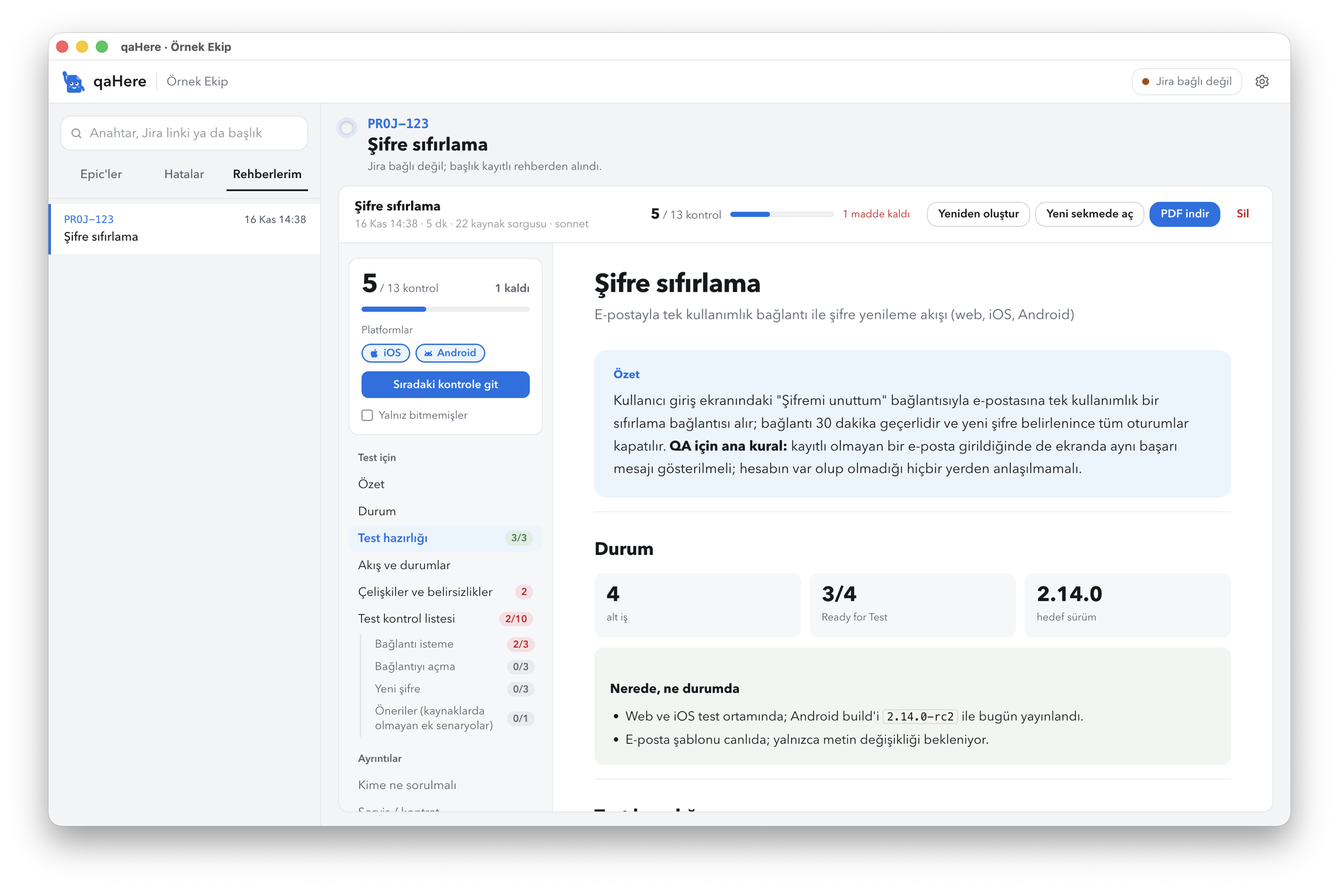
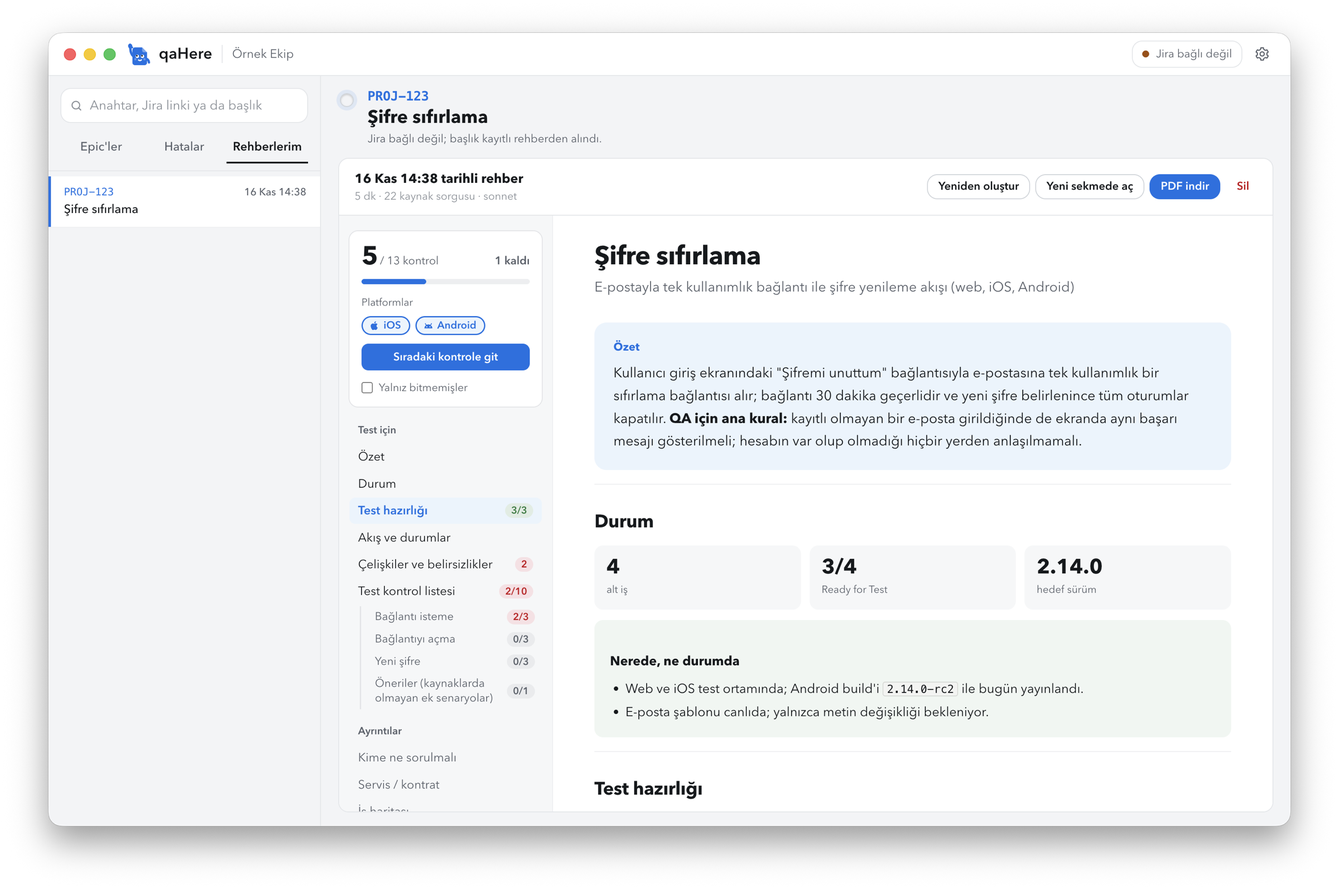
Masaüstü: native başlık çubuğu, rehberde koyu tema, tekrar eden başlık ve ilerleme sadeleşti

diff --git a/public/viewer.css b/public/viewer.css
@@ -1,23 +1,26 @@
 /* Rehberin uygulama içindeki ekran düzeni (viewer.js ile). Yalnızca html.live altında geçerli; PDF'i etkilemez. */
-html.live{scroll-padding-top:16px;background:#fff}
+/* Yüzeyler değişkenle: açık tema aşağıda, koyu tema dosyanın sonunda. PDF ve "Yeni sekmede aç" hep açık kalır. */
+html.live{scroll-padding-top:16px;background:var(--bg);
+  --bg:#fff; --raise:#fff; --rail:#f6f7f8; --hover:#eef0f2; --sep:#eceef0; --sep-2:#e2e4e7; --chip:#e9ebed;
+  --ctl:#d5d9dd; --ctl-2:#b9bec4; --na:#f1f2f4; --na-ink:#a3a8ae; --brand-ink:var(--brand)}
 html.live body{max-width:none;margin:0;padding:0;font-size:15px;line-height:1.6;
-  --rail:#f6f7f8; --hover:#eef0f2; --rad:10px;
+  --rad:10px;
   font-family:var(--sans)}
 html.live .vw{display:grid;grid-template-columns:248px minmax(0,1fr);min-height:100vh}
 
 /* Sol sütun */
-html.live .rail{position:sticky;top:0;align-self:start;height:100vh;overflow:auto;background:var(--rail);padding:18px 12px 28px;border-right:1px solid #e8eaec}
-html.live .meter{background:#fff;border-radius:var(--rad);padding:14px 14px 12px;margin-bottom:18px;box-shadow:0 0 0 1px #e6e8ea}
+html.live .rail{position:sticky;top:0;align-self:start;height:100vh;overflow:auto;background:var(--rail);padding:18px 12px 28px;border-right:1px solid var(--sep)}
+html.live .meter{background:var(--raise);border-radius:var(--rad);padding:14px 14px 12px;margin-bottom:18px;box-shadow:0 0 0 1px var(--sep-2)}
 html.live .nums{display:flex;align-items:baseline;gap:2px}
 html.live .nums b{font-size:30px;line-height:1;font-weight:700;font-variant-numeric:tabular-nums;color:var(--ink)}
 html.live .nums span{color:var(--mute);font-size:13px}
-html.live .bar{height:6px;border-radius:99px;background:#eceef0;margin:10px 0 12px;overflow:hidden}
+html.live .bar{height:6px;border-radius:99px;background:var(--sep);margin:10px 0 12px;overflow:hidden}
 html.live .bar i{display:block;height:100%;background:var(--brand);border-radius:99px;transition:width .3s ease}
 html.live .meter.all .bar i{background:var(--ok)}
 html.live .meter.all .nums b{color:var(--ok)}
 html.live .next{width:100%;border:0;border-radius:8px;background:var(--brand);color:#fff;font-size:13px;font-weight:600;line-height:1;font-family:inherit;padding:9px 10px;cursor:pointer}
 html.live .next:hover{filter:brightness(1.1)}
-html.live .next:disabled{background:#e6e8ea;color:var(--mute);cursor:default;filter:none}
+html.live .next:disabled{background:var(--sep-2);color:var(--mute);cursor:default;filter:none}
 html.live .only{display:flex;align-items:center;gap:7px;margin-top:10px;font-size:12.5px;color:var(--mute);cursor:pointer}
 html.live .only input{accent-color:var(--brand);margin:0}
 html.live .grp{margin:16px 10px 6px;font-size:12px;font-weight:600;color:var(--mute)}
@@ -25,12 +28,12 @@ html.live .links,html.live .rail .subs{list-style:none;margin:0;padding:0}
 html.live .links li{margin:1px 0}
 html.live .to{display:flex;width:100%;align-items:center;gap:8px;text-align:left;border:0;background:none;border-radius:7px;padding:6px 10px;font:inherit;font-size:14px;color:var(--ink);cursor:pointer;line-height:1.3}
 html.live .to:hover{background:var(--hover)}
-html.live .to[aria-current]{background:var(--brand-soft);color:var(--brand);font-weight:600}
+html.live .to[aria-current]{background:var(--brand-soft);color:var(--brand-ink);font-weight:600}
 html.live .to .t{flex:1;min-width:0}
-html.live .n{font-size:11.5px;font-weight:600;color:var(--mute);font-variant-numeric:tabular-nums;background:#e9ebed;border-radius:99px;padding:1px 7px}
-html.live .n.all{background:color-mix(in srgb,var(--ok) 14%,#fff);color:var(--ok)}
-html.live .n.warn{background:color-mix(in srgb,var(--bad) 12%,#fff);color:var(--bad)}
-html.live .rail .subs{margin:2px 0 6px 12px;padding-left:8px;border-left:1.5px solid #e2e4e7}
+html.live .n{font-size:11.5px;font-weight:600;color:var(--mute);font-variant-numeric:tabular-nums;background:var(--chip);border-radius:99px;padding:1px 7px}
+html.live .n.all{background:color-mix(in srgb,var(--ok) 14%,var(--bg));color:var(--ok)}
+html.live .n.warn{background:color-mix(in srgb,var(--bad) 12%,var(--bg));color:var(--bad)}
+html.live .rail .subs{margin:2px 0 6px 12px;padding-left:8px;border-left:1.5px solid var(--sep-2)}
 html.live .rail .subs .to{font-size:13px;padding:4px 8px;color:var(--mute)}
 html.live .rail .subs .to:hover{color:var(--ink)}
 html.live .rail .links:last-child .to{color:var(--mute)}
@@ -45,18 +48,18 @@ html.live .cover .sub{font-size:16px;color:var(--mute)}
 html.live h2{font-family:var(--sans);font-size:21px;line-height:1.25;font-weight:700;letter-spacing:-.01em;border:0;padding:0;margin:0 0 14px}
 html.live h3{font-size:15px;font-weight:650;margin:22px 0 8px}
 html.live p,html.live li{max-width:72ch}
-html.live .sec{padding:30px 0 6px;border-top:1px solid #eceef0}
+html.live .sec{padding:30px 0 6px;border-top:1px solid var(--sep)}
 html.live .tier-test > .sec:first-child{border-top:0;padding-top:0}
 
 /* Özet: ilk okunacak şey */
 html.live .lead .box.brand{background:var(--brand-soft);border:0;border-radius:14px;padding:18px 22px;font-size:16px;line-height:1.65}
-html.live .lead .box.brand h3{margin:0 0 6px;font-size:13px;color:var(--brand)}
+html.live .lead .box.brand h3{margin:0 0 6px;font-size:13px;color:var(--brand-ink)}
 
 /* Kutular: çerçevesiz, tonlu */
 html.live .box{border:0;border-radius:var(--rad);padding:14px 18px}
-html.live .box.ok{background:color-mix(in srgb,var(--ok) 7%,#fff)}
-html.live .box.warn{background:color-mix(in srgb,var(--warn) 8%,#fff)}
-html.live .box.bad{background:color-mix(in srgb,var(--bad) 6%,#fff)}
+html.live .box.ok{background:color-mix(in srgb,var(--ok) 7%,var(--bg))}
+html.live .box.warn{background:color-mix(in srgb,var(--warn) 8%,var(--bg))}
+html.live .box.bad{background:color-mix(in srgb,var(--bad) 6%,var(--bg))}
 html.live .box.bad h3{color:var(--bad)} html.live .box.warn h3{color:var(--warn)}
 html.live .kpis{border:0;gap:10px;grid-template-columns:repeat(auto-fit,minmax(150px,1fr))}
 html.live .kpi{background:var(--rail);border:0;border-radius:var(--rad);padding:12px 14px}
@@ -64,14 +67,14 @@ html.live .kpi b{font-family:var(--sans);font-size:24px;line-height:1.1;font-wei
 
 /* Tablolar */
 html.live table{font-size:14px}
-html.live th{color:var(--mute);font-weight:600;border-bottom:1px solid #dfe2e5}
-html.live td{border-bottom:1px solid #eef0f2;padding:9px 10px}
+html.live th{color:var(--mute);font-weight:600;border-bottom:1px solid var(--sep-2)}
+html.live td{border-bottom:1px solid var(--sep);padding:9px 10px}
 
 /* Akış: adım çizgisi */
 html.live ol.steps{list-style:none;counter-reset:st;padding:0;margin:6px 0 18px}
 html.live ol.steps > li{counter-increment:st;position:relative;padding:0 0 16px 40px;margin:0}
-html.live ol.steps > li::before{content:counter(st);position:absolute;left:0;top:0;width:26px;height:26px;border-radius:50%;background:var(--brand-soft);color:var(--brand);font-weight:700;font-size:13px;display:grid;place-items:center}
-html.live ol.steps > li:not(:last-child)::after{content:"";position:absolute;left:12.5px;top:30px;bottom:2px;width:1.5px;background:#e2e4e7}
+html.live ol.steps > li::before{content:counter(st);position:absolute;left:0;top:0;width:26px;height:26px;border-radius:50%;background:var(--brand-soft);color:var(--brand-ink);font-weight:700;font-size:13px;display:grid;place-items:center}
+html.live ol.steps > li:not(:last-child)::after{content:"";position:absolute;left:12.5px;top:30px;bottom:2px;width:1.5px;background:var(--sep-2)}
 html.live table.pairs td:first-child{font-weight:600;width:42%;position:relative;padding-right:28px}
 html.live table.pairs td:first-child::after{content:"→";position:absolute;right:8px;top:9px;color:var(--faint);font-weight:400}
 
@@ -79,59 +82,59 @@ html.live table.pairs td:first-child::after{content:"→";position:absolute;righ
 html.live .chk{padding:0;margin:4px 0 12px}
 html.live .chk li[data-c]{list-style:none;position:relative;padding:8px calc(var(--pls,2) * 54px + 12px) 8px 42px;margin:2px 0;border-radius:9px;cursor:pointer;transition:background .12s;max-width:none}
 html.live .chk li[data-c]:hover{background:var(--hover)}
-html.live .chk li[data-c]::before{left:13px;top:11px;width:18px;height:18px;border-radius:5px;border:1.5px solid #b9bec4;background:#fff;transition:background .15s,border-color .15s;pointer-events:none}
+html.live .chk li[data-c]::before{left:13px;top:11px;width:18px;height:18px;border-radius:5px;border:1.5px solid var(--ctl-2);background:var(--raise);transition:background .15s,border-color .15s;pointer-events:none}
 html.live .chk li[data-c]:hover::before{border-color:var(--brand)}
 html.live .chk li[data-done]{color:var(--mute);text-decoration:line-through;text-decoration-color:color-mix(in srgb,var(--mute) 55%,transparent)}
 html.live .chk li[data-done] .pfc{text-decoration:none}
 html.live .chk li[data-done]::before{background:var(--ok);border-color:var(--ok)}
 html.live .chk li[data-done]::after{left:19.5px;top:14px;width:5px;height:9px;border-width:0 2px 2px 0;pointer-events:none}
-html.live .chk li[data-fail]::before{border-color:var(--bad);background:color-mix(in srgb,var(--bad) 10%,#fff)}
-html.live .chk li[data-fail]{background:color-mix(in srgb,var(--bad) 4%,#fff)}
+html.live .chk li[data-fail]::before{border-color:var(--bad);background:color-mix(in srgb,var(--bad) 10%,var(--bg))}
+html.live .chk li[data-fail]{background:color-mix(in srgb,var(--bad) 4%,var(--bg))}
 html.live .chk li .tick{position:absolute;left:6px;top:4px;width:32px;height:32px;border:0;background:none;border-radius:8px;cursor:pointer;padding:0}
 html.live .chk li .tick:focus-visible{outline:2px solid var(--brand);outline-offset:-2px}
 html.live.only-open .chk li[data-done]{display:none}
 html.live .chk li.flash{animation:flash 1.4s ease}
-@keyframes flash{0%,40%{background:color-mix(in srgb,var(--brand) 16%,#fff)}100%{background:transparent}}
-html.live .box .chk li[data-c]:hover{background:rgba(255,255,255,.6)}
+@keyframes flash{0%,40%{background:color-mix(in srgb,var(--brand) 16%,var(--bg))}100%{background:transparent}}
+html.live .box .chk li[data-c]:hover{background:color-mix(in srgb,var(--bg) 60%,transparent)}
 
 /* Platform düğmeleri */
 html.live .pfc{position:absolute;right:8px;top:5px;display:flex;gap:6px}
-html.live .pl{display:inline-flex;align-items:center;gap:3px;height:28px;min-width:48px;padding:0 7px;border:1.5px solid #d5d9dd;border-radius:7px;background:#fff;color:#8a9097;font:600 12.5px/1 var(--sans);cursor:pointer;transition:background .12s,border-color .12s,color .12s}
+html.live .pl{display:inline-flex;align-items:center;gap:3px;height:28px;min-width:48px;padding:0 7px;border:1.5px solid var(--ctl);border-radius:7px;background:var(--raise);color:var(--faint);font:600 12.5px/1 var(--sans);cursor:pointer;transition:background .12s,border-color .12s,color .12s}
 html.live .pl[hidden]{display:none}
 html.live .pl svg{width:15px;height:15px;flex:none}
 html.live .pl .mk{min-width:10px;text-align:center}
 html.live .pl:hover{border-color:var(--brand);color:var(--ink)}
 html.live .pl:focus-visible{outline:2px solid var(--brand);outline-offset:1px}
-html.live .pl[data-s="pass"]{background:color-mix(in srgb,var(--ok) 12%,#fff);border-color:color-mix(in srgb,var(--ok) 55%,#fff);color:var(--ok)}
-html.live .pl[data-s="fail"]{background:color-mix(in srgb,var(--bad) 10%,#fff);border-color:color-mix(in srgb,var(--bad) 55%,#fff);color:var(--bad)}
-html.live .pl[data-s="na"]{background:#f1f2f4;border-style:dashed;color:#a3a8ae}
-html.live .pl.p-android svg circle{fill:#fff}
-html.live .pl[data-s="pass"].p-android svg circle{fill:color-mix(in srgb,var(--ok) 12%,#fff)}
-html.live .pl[data-s="fail"].p-android svg circle{fill:color-mix(in srgb,var(--bad) 10%,#fff)}
-html.live .pl[data-s="na"].p-android svg circle{fill:#f1f2f4}
+html.live .pl[data-s="pass"]{background:color-mix(in srgb,var(--ok) 12%,var(--bg));border-color:color-mix(in srgb,var(--ok) 55%,var(--bg));color:var(--ok)}
+html.live .pl[data-s="fail"]{background:color-mix(in srgb,var(--bad) 10%,var(--bg));border-color:color-mix(in srgb,var(--bad) 55%,var(--bg));color:var(--bad)}
+html.live .pl[data-s="na"]{background:var(--na);border-style:dashed;color:var(--na-ink)}
+html.live .pl.p-android svg circle{fill:var(--raise)}
+html.live .pl[data-s="pass"].p-android svg circle{fill:color-mix(in srgb,var(--ok) 12%,var(--bg))}
+html.live .pl[data-s="fail"].p-android svg circle{fill:color-mix(in srgb,var(--bad) 10%,var(--bg))}
+html.live .pl[data-s="na"].p-android svg circle{fill:var(--na)}
 
 /* Maddeye açılan hata kayıtları */
 html.live .bugs{display:inline-flex;gap:6px;margin-left:8px;vertical-align:1px}
-html.live .bugref{font:600 12px/1 var(--mono);color:var(--bad);background:color-mix(in srgb,var(--bad) 9%,#fff);border-radius:5px;padding:3px 6px;text-decoration:none;white-space:nowrap}
+html.live .bugref{font:600 12px/1 var(--mono);color:var(--bad);background:color-mix(in srgb,var(--bad) 9%,var(--bg));border-radius:5px;padding:3px 6px;text-decoration:none;white-space:nowrap}
 html.live .bugref:hover{text-decoration:underline}
 html.live .chk li[data-done] .bugs{text-decoration:none}
-html.live .o-bug{color:var(--bad);border-top:1px solid #eef0f2;border-radius:0 0 7px 7px;margin-top:3px}
+html.live .o-bug{color:var(--bad);border-top:1px solid var(--sep);border-radius:0 0 7px 7px;margin-top:3px}
 html.live .o-mock,html.live .o-run{color:var(--ink)}
-html.live .o-run{border-top:1px solid #eef0f2;border-radius:0;margin-top:3px}
-html.live .o-run .pmk{background:color-mix(in srgb,var(--ok) 14%,#fff);color:var(--ok);font-size:10px}
-html.live .o-mock .pmk{background:var(--brand-soft);color:var(--brand)}
-html.live .o-bug .pmk{background:color-mix(in srgb,var(--bad) 12%,#fff);color:var(--bad)}
+html.live .o-run{border-top:1px solid var(--sep);border-radius:0;margin-top:3px}
+html.live .o-run .pmk{background:color-mix(in srgb,var(--ok) 14%,var(--bg));color:var(--ok);font-size:10px}
+html.live .o-mock .pmk{background:var(--brand-soft);color:var(--brand-ink)}
+html.live .o-bug .pmk{background:color-mix(in srgb,var(--bad) 12%,var(--bg));color:var(--bad)}
 
 /* Platform menüsü */
-html.live .pmenu{position:absolute;z-index:20;min-width:210px;background:#fff;border-radius:10px;padding:5px;box-shadow:0 0 0 1px #e3e6e9,0 12px 32px rgba(20,24,28,.16)}
+html.live .pmenu{position:absolute;z-index:20;min-width:210px;background:var(--raise);border-radius:10px;padding:5px;box-shadow:0 0 0 1px var(--sep-2),0 12px 32px rgba(20,24,28,.16)}
 html.live .pmenu[hidden]{display:none}
 html.live .pmh{font-size:12px;font-weight:600;color:var(--mute);padding:6px 10px 4px}
 html.live .pmi{display:flex;align-items:center;gap:10px;width:100%;border:0;background:none;border-radius:7px;padding:8px 10px;font:500 14px/1.2 var(--sans);color:var(--ink);cursor:pointer;text-align:left}
 html.live .pmi:hover,html.live .pmi:focus-visible{background:var(--hover);outline:0}
-html.live .pmk{width:20px;height:20px;border-radius:6px;display:grid;place-items:center;font-size:12px;font-weight:700;background:#eef0f2;color:var(--mute)}
-html.live .o-pass .pmk{background:color-mix(in srgb,var(--ok) 14%,#fff);color:var(--ok)}
-html.live .o-fail .pmk{background:color-mix(in srgb,var(--bad) 12%,#fff);color:var(--bad)}
-html.live .o-clear{color:var(--mute);border-top:1px solid #eef0f2;border-radius:0 0 7px 7px;margin-top:3px}
+html.live .pmk{width:20px;height:20px;border-radius:6px;display:grid;place-items:center;font-size:12px;font-weight:700;background:var(--hover);color:var(--mute)}
+html.live .o-pass .pmk{background:color-mix(in srgb,var(--ok) 14%,var(--bg));color:var(--ok)}
+html.live .o-fail .pmk{background:color-mix(in srgb,var(--bad) 12%,var(--bg));color:var(--bad)}
+html.live .o-clear{color:var(--mute);border-top:1px solid var(--sep);border-radius:0 0 7px 7px;margin-top:3px}
 html.live .pmi[aria-checked="true"]{font-weight:700}
 html.live .pmi[aria-checked="true"]::after{content:"•";margin-left:auto;color:var(--brand)}
 
@@ -139,14 +142,14 @@ html.live .pmi[aria-checked="true"]::after{content:"•";margin-left:auto;color:
 html.live .failn{margin-left:auto;color:var(--bad);font-size:12.5px;font-weight:600}
 html.live .plrow{display:flex;align-items:center;gap:6px;margin:0 0 10px;flex-wrap:wrap}
 html.live .pll{width:100%;font-size:12px;color:var(--mute)}
-html.live .plt{display:inline-flex;align-items:center;gap:4px;border:1.5px solid #e1e4e7;background:#fff;border-radius:99px;padding:3px 9px 3px 7px;font:600 12px/1 var(--sans);color:var(--mute);cursor:pointer}
+html.live .plt{display:inline-flex;align-items:center;gap:4px;border:1.5px solid var(--sep-2);background:var(--raise);border-radius:99px;padding:3px 9px 3px 7px;font:600 12px/1 var(--sans);color:var(--mute);cursor:pointer}
 html.live .plt svg{width:13px;height:13px}
-html.live .plt circle{fill:#fff}
-html.live .plt[aria-pressed="true"]{border-color:var(--brand);color:var(--brand);background:var(--brand-soft)}
+html.live .plt circle{fill:var(--raise)}
+html.live .plt[aria-pressed="true"]{border-color:var(--brand);color:var(--brand-ink);background:var(--brand-soft)}
 html.live .plt[aria-pressed="true"] circle{fill:var(--brand-soft)}
 
 /* Ayrıntılar: kapalı satırlar */
-html.live .detail-head{margin-top:44px;padding-top:28px;border-top:1px solid #e3e5e8}
+html.live .detail-head{margin-top:44px;padding-top:28px;border-top:1px solid var(--sep-2)}
 html.live .detail-head p{color:var(--mute);margin:0 0 14px}
 html.live details.more{border-radius:var(--rad);background:var(--rail);margin:0 0 8px}
 html.live details.more > summary{list-style:none;display:flex;align-items:center;gap:12px;padding:13px 16px;cursor:pointer;border-radius:var(--rad);font-weight:600}
@@ -157,12 +160,12 @@ html.live details.more > summary:hover{background:var(--hover)}
 html.live details.more > summary:focus-visible{outline:2px solid var(--brand)}
 html.live .more-t{flex:1}
 html.live .more-n{font-size:12.5px;font-weight:500;color:var(--mute)}
-html.live .more-b{background:#fff;margin:0 4px 4px;border-radius:8px;padding:6px 16px 10px}
-html.live .foot{margin-top:40px;border-top:1px solid #eceef0}
+html.live .more-b{background:var(--bg);margin:0 4px 4px;border-radius:8px;padding:6px 16px 10px}
+html.live .foot{margin-top:40px;border-top:1px solid var(--sep)}
 
 @media (max-width:760px){
   html.live .vw{grid-template-columns:1fr}
-  html.live .rail{position:sticky;top:0;z-index:5;height:auto;border-right:0;border-bottom:1px solid #e8eaec;padding:8px 12px}
+  html.live .rail{position:sticky;top:0;z-index:5;height:auto;border-right:0;border-bottom:1px solid var(--sep);padding:8px 12px}
   html.live .rail .links,html.live .rail .grp,html.live .rail .subs,html.live .only,html.live .plrow{display:none}
   html.live .meter{margin:0;display:grid;grid-template-columns:auto 1fr auto;align-items:center;gap:12px;padding:8px 10px}
   html.live .nums b{font-size:20px}
@@ -171,5 +174,22 @@ html.live .foot{margin-top:40px;border-top:1px solid #eceef0}
   html.live .doc{padding:20px 16px 60px}
   html.live .chk li[data-c]{padding-right:12px;padding-bottom:44px}
   html.live .pfc{top:auto;bottom:8px;left:42px;right:auto}
+}
+/* Koyu tema: arayüzle aynı tonlar. Rehber belgesinin (guide.css) değişkenleri de burada koyulaşır. */
+@media (prefers-color-scheme:dark){
+  html.live{color-scheme:dark;
+    --bg:#1b1e21; --raise:#23272b; --rail:#17191c; --hover:#2a2e33; --sep:#2a2e33; --sep-2:#353a40; --chip:#2e3338;
+    --ctl:#3c4248; --ctl-2:#5c636b; --na:#262a2e; --na-ink:#6f767e;
+    --ink:#eceeec; --mute:#a3a9b0; --faint:#7b828a; --line:#2e3338; --line-2:#3c4248; --soft:#23272b;
+    --ok:#4cc46e; --warn:#f0a43c; --bad:#ff6b6b;
+    --brand-ink:color-mix(in srgb,var(--brand) 60%,#fff);
+    --brand-soft:color-mix(in srgb,var(--brand) 20%,#1b1e21);
+    --ok-soft:color-mix(in srgb,#4cc46e 14%,#1b1e21); --warn-soft:color-mix(in srgb,#f0a43c 14%,#1b1e21); --bad-soft:color-mix(in srgb,#ff6b6b 14%,#1b1e21)}
+  html.live a{color:var(--brand-ink)}
+  html.live .box.ok{background:color-mix(in srgb,var(--ok) 10%,var(--bg))}
+  html.live .box.warn{background:color-mix(in srgb,var(--warn) 11%,var(--bg))}
+  html.live .box.bad{background:color-mix(in srgb,var(--bad) 10%,var(--bg))}
+  html.live .chk li[data-done]::after{border-color:#fff}
+  html.live code{background:var(--raise);border-color:var(--sep-2)}
 }
 @media (prefers-reduced-motion:reduce){ html.live *{transition:none!important;animation:none!important} }

diff --git a/desktop/main.js b/desktop/main.js
@@ -119,7 +119,8 @@ function page(title, body) {
   :root{color-scheme:light dark;--bg:#f3f4f6;--ink:#16191c;--mute:#59606a;--well:#fff;--rule:#d9dce0}
   @media (prefers-color-scheme:dark){:root{--bg:#121416;--ink:#eceeec;--mute:#a3a9b0;--well:#1b1e21;--rule:#2e3237}}
   body{margin:0;min-height:100vh;display:grid;place-items:center;background:var(--bg);color:var(--ink);
-  font:15px/1.5 -apple-system,BlinkMacSystemFont,"Segoe UI",sans-serif}
+  font:15px/1.5 -apple-system,BlinkMacSystemFont,"Segoe UI",sans-serif;-webkit-app-region:drag}
+  pre,p{-webkit-app-region:no-drag}
   main{max-width:640px;padding:32px}h1{font-size:20px;margin:0 0 8px}p{color:var(--mute);margin:0 0 16px}
   pre{background:var(--well);border:1px solid var(--rule);border-radius:8px;padding:12px;font-size:12px;
   max-height:46vh;overflow:auto;white-space:pre-wrap}
@@ -177,11 +178,20 @@ function guard(w) {
 
 function createWindow() {
   const b = savedBounds();
+  const mac = process.platform === 'darwin';
   win = new BrowserWindow({
     ...b, minWidth: 900, minHeight: 600, title: 'qaHere', show: false,
-    backgroundColor: nativeTheme.shouldUseDarkColors ? '#121416' : '#f3f4f6',
+    backgroundColor: nativeTheme.shouldUseDarkColors ? '#1b1e21' : '#ffffff',
+    // macOS: sistem başlık çubuğu yok; trafik ışıkları qaHere'nin 50 px'lik üst çubuğunun içinde, dikeyde ortalı.
+    ...(mac ? { titleBarStyle: 'hiddenInset', trafficLightPosition: { x: 18, y: 19 } } : {}),
     webPreferences: { sandbox: true, contextIsolation: true, nodeIntegration: false, spellcheck: false },
   });
+  // Arayüz kendini masaüstü düzenine alsın diye (app.js bunu okuyup <html>'e sınıf ekler).
+  win.webContents.setUserAgent(`${win.webContents.getUserAgent()} qaHereDesktop`);
+  const fs_ = (on) => win.webContents.executeJavaScript(`document.documentElement.classList.toggle('fullscreen', ${on})`).catch(() => {});
+  win.on('enter-full-screen', () => fs_(true));
+  win.on('leave-full-screen', () => fs_(false));
+  win.webContents.on('dom-ready', () => fs_(win.isFullScreen()));
   guard(win);
   win.once('ready-to-show', () => win.show());
   win.on('close', () => {

diff --git a/public/app.js b/public/app.js
@@ -1,6 +1,12 @@
 // qaHere arayüzü. Bağımlılık yok; dışarıdan gelen her metin textContent ile yazılır.
 const $ = (s) => document.querySelector(s);
 
+// Masaüstü uygulamasında (desktop/main.js kullanıcı ajanına "qaHereDesktop" ekler) üst çubuk pencerenin başlığı olur.
+if (/\bqaHereDesktop\b/.test(navigator.userAgent)) {
+  document.documentElement.classList.add('desktop');
+  if (/Macintosh/.test(navigator.userAgent)) document.documentElement.classList.add('mac');
+}
+
 function h(tag, attrs = {}, ...kids) {
   const el = document.createElement(tag);
   for (const [k, v] of Object.entries(attrs || {})) {
@@ -719,7 +725,7 @@ function renderGuides(key, guides, selectedId) {
       h('span', { class: 'cnum' }, h('b', {}, String(n)), ` / ${g.checkTotal} kontrol`),
       h('span', { class: 'cbar', role: 'progressbar', 'aria-valuemin': '0', 'aria-valuemax': String(g.checkTotal), 'aria-valuenow': String(n) },
         h('i', { style: `width:${(n / g.checkTotal) * 100}%` })),
-      note ? h('span', { class: 'cnote bad' }, note)
+      note ? h('span', { class: 'cnote bad err' }, note)
         : failed ? h('span', { class: 'cnote bad' }, `${failed} madde kaldı`)
           : h('span', { class: 'cnote' }, all ? 'Tamamı bitti' : 'Otomatik kaydediliyor'));
   };
@@ -783,7 +789,8 @@ function renderGuides(key, guides, selectedId) {
 
   box.replaceChildren(
     h('div', { class: 'gbar' },
-      h('div', { class: 'gtitle' }, h('h2', {}, g.title), h('div', { class: 'sub' }, `${fmtDate(g.createdAt)} · ${stats}`)),
+      // İşin başlığı hemen üstte ve rehberin kendisinde yazıyor; burada rehberin ne zaman, nasıl üretildiği.
+      h('div', { class: 'gtitle' }, h('h2', {}, `${fmtDate(g.createdAt)} tarihli rehber`), h('div', { class: 'sub' }, stats)),
       progress,
       h('div', { class: 'acts' },
         version, kidsBtn, mocksBtn, regen,

diff --git a/public/style.css b/public/style.css
@@ -311,6 +311,15 @@ pre.cmd button{border:0;background:none;color:color-mix(in srgb,var(--accent) 50
 .steps span.on{background:var(--accent)}
 .bigcheck{width:56px;height:56px;border-radius:50%;background:color-mix(in srgb,var(--ok) 14%,transparent);color:var(--ok);display:grid;place-items:center;margin:0 auto 14px}
 
+/* Masaüstü uygulaması (macOS): üst çubuk pencerenin başlığıdır. Trafik ışıkları solda (desktop/main.js
+   trafficLightPosition), çubuk sürüklenir, çift tıklama pencereyi büyütür. Tam ekranda ışıklar gizlenir, boşluk kalkar. */
+html.desktop .bar{-webkit-app-region:drag;-webkit-user-select:none;user-select:none}
+html.desktop .bar button,html.desktop .bar a,html.desktop .bar select{-webkit-app-region:no-drag}
+html.desktop.mac .bar{padding-left:94px}
+html.desktop.mac.fullscreen .bar{padding-left:18px}
+html.desktop.mac .onboard{padding-top:calc(7vh + 24px)}
+html.desktop.mac .onboard::before{content:"";position:fixed;inset:0 0 auto;height:44px;-webkit-app-region:drag;z-index:1}
+
 /* Rehber düzeni: üstte ince iş şeridi + araç çubuğu, altta rehber ekranı doldurur */
 .main.gmode{display:flex;flex-direction:column;overflow:hidden}
 .gtop{flex:none;padding:14px 20px 0;max-height:60%;overflow:auto}
@@ -337,6 +346,8 @@ pre.cmd button{border:0;background:none;color:color-mix(in srgb,var(--accent) 50
 .checks.all .cbar i{background:var(--ok)} .checks.all .cnum b{color:var(--ok)}
 .cnote{font-size:12px;color:var(--faint);white-space:nowrap}
 .cnote.bad{color:var(--bad);white-space:normal}
+/* Rehberin kendi yan sütunu (≥760 px çerçevede) ilerlemeyi gösterir; üst çubukta yalnızca kayıt hatası kalır. */
+@media (min-width:1240px){ .gbar .checks > :not(.err){display:none} }
 select.ver{font-family:var(--sans);font-size:13px;padding:6px 28px 6px 10px}
 
 @media (max-width:860px){
